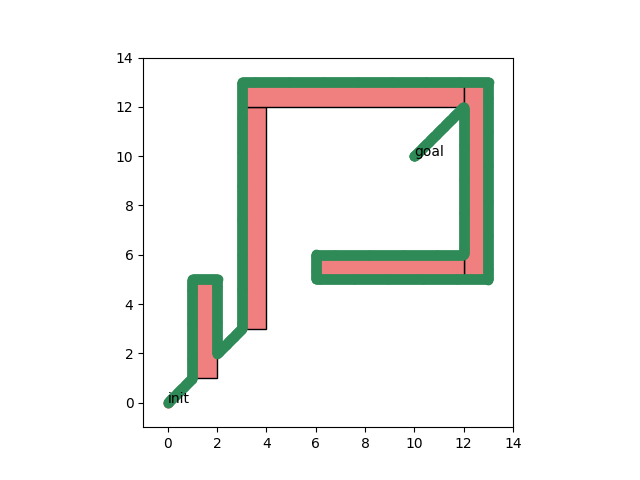
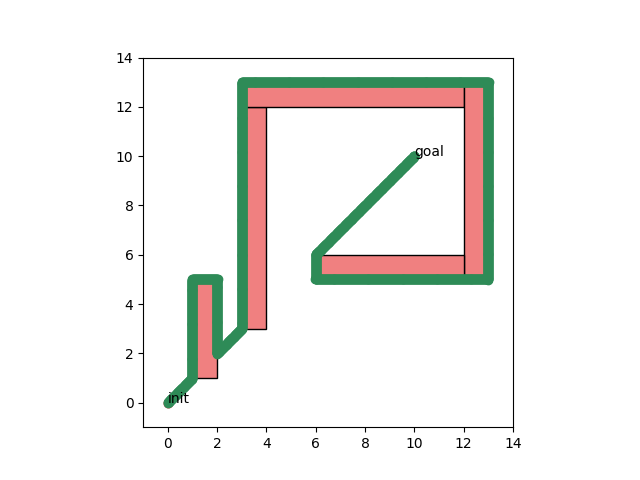
Final Graded code for hw2

Changed region(s): [[0.5, 0.2188, 0.75, 0.5625]]

diff --git a/ws/hw2/Bug2.cpp b/ws/hw2/Bug2.cpp
@@ -39,20 +39,21 @@ amp::Path2D Bug2::plan(const amp::Problem2D& problem) {
             if (!check_collisions(rotCW * (rotCW * step) + path.waypoints.back(), problem.obstacles)
                 && !check_collisions(step + path.waypoints.back(), problem.obstacles)){
                 path.waypoints.push_back(step + path.waypoints.back());
-            }
-            // Check if crossed start to goal line
-            w = path.waypoints.back() - problem.q_goal; // Note: w is being reused to store different vector from original use
-            if ((w.dot(v) >= 0 && sgn < 0) || (w.dot(v) < 0 && sgn > 0)){
-                sgn = -sgn;
-                // Check if closer to goal than hit point and can move towards goal
-                if (w.norm() < dist
-                    && !check_collisions(-w.normalized() * step_size + path.waypoints.back(), problem.obstacles)) {
-                    step = - step / (-(v.dot(path.waypoints[path.waypoints.size() - 2] - problem.q_goal) / w.dot(v)) + 1);
-                    path.waypoints.push_back(step + path.waypoints.back()); // To ensure exactly on line
-                    step = (problem.q_goal - path.waypoints.back()).normalized() * step_size;
-                    break;
+                // Check if crossed start to goal line
+                double side = v.dot(path.waypoints.back() - problem.q_goal);
+                if ((side >= 0 && sgn < 0) || (side < 0 && sgn > 0)){
+                    sgn = -sgn;
+                    // Check if closer to goal than hit point and can move towards goal
+                    path.waypoints.push_back(path.waypoints.back() - step / (-(v.dot(path.waypoints[path.waypoints.size() - 2] - problem.q_goal) / side) + 1));
+                    if ((path.waypoints.back() - problem.q_goal).norm() < dist
+                        && !check_collisions(path.waypoints.back() + (problem.q_goal - path.waypoints.back()).normalized() * step_size, problem.obstacles)) {
+                        step = (problem.q_goal - path.waypoints.back()).normalized() * step_size;
+                        break;
+                    }
+                    path.waypoints.pop_back();
                 }
             }
+
             // Edge Finding
             int i = 1;
             while (!check_collisions(step + path.waypoints.back(), problem.obstacles) && i < 180/deg_step){
@@ -63,6 +64,19 @@ amp::Path2D Bug2::plan(const amp::Problem2D& problem) {
                 step = rotCCW * step;
             }
             path.waypoints.push_back(step + path.waypoints.back());
+            // Check if crossed start to goal line
+            double side = v.dot(path.waypoints.back() - problem.q_goal);
+            if ((side >= 0 && sgn < 0) || (side < 0 && sgn > 0)){
+                sgn = -sgn;
+                // Check if closer to goal than hit point and can move towards goal
+                path.waypoints.push_back(path.waypoints.back() - step / (-(v.dot(path.waypoints[path.waypoints.size() - 2] - problem.q_goal) / side) + 1));
+                if ((path.waypoints.back() - problem.q_goal).norm() < dist
+                    && !check_collisions(path.waypoints.back() + (problem.q_goal - path.waypoints.back()).normalized() * step_size, problem.obstacles)) {
+                    step = (problem.q_goal - path.waypoints.back()).normalized() * step_size;
+                    break;
+                }
+                path.waypoints.pop_back();
+            }
             // Check if returned to original hit point
             if (((path.waypoints.size() - q_hit_i) > 4) && (path.waypoints[q_hit_i] - path.waypoints.back()).norm() < step_size){
                 LOG("No Path Found!");

diff --git a/ws/hw2/main.cpp b/ws/hw2/main.cpp
@@ -86,7 +86,9 @@ int main(int argc, char** argv) {
 
     Visualizer::saveFigures(true, "hw2_figs");
 
-
+//    LOG("Grade Bug1: ");
+//    HW2::grade(algo1, "Katrina.Braun@colorado.edu", argc, argv);
+    LOG("Grade Bug2: ");
     HW2::grade(algo2, "Katrina.Braun@colorado.edu", argc, argv);
     
     /* If you want to reconstruct your bug algorithm object every trial (to reset member variables from scratch or initialize), use this method instead*/

diff --git a/ws/hw2/Bug1.h b/ws/hw2/Bug1.h
@@ -13,6 +13,6 @@ class Bug1 : public amp::BugAlgorithm {
 
     private:
         // Sets the step size and collision search distance of the algorithm.
-        double step_size = 0.02;
+        double step_size = 0.01;
         int deg_step = 5;
 };
